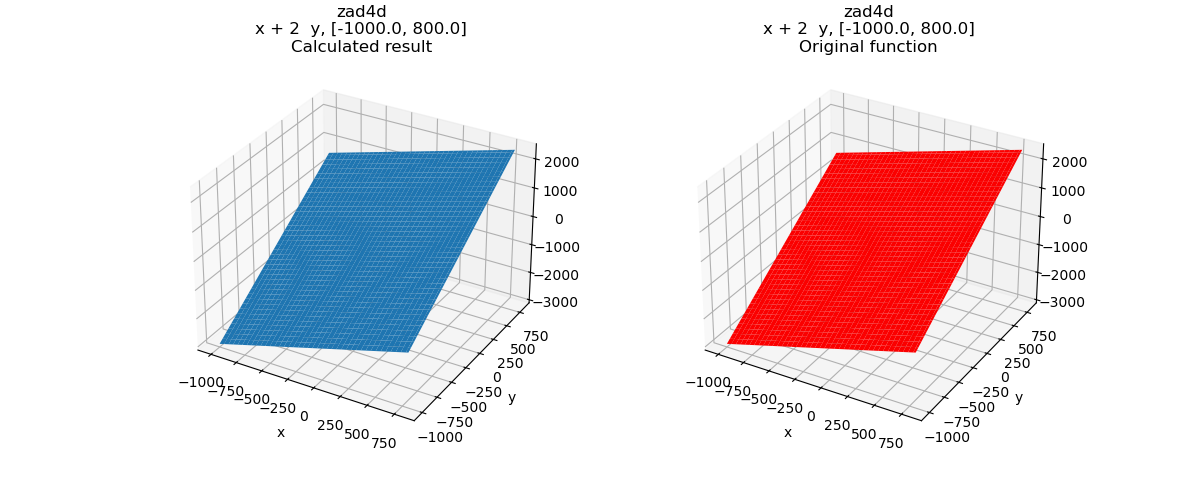
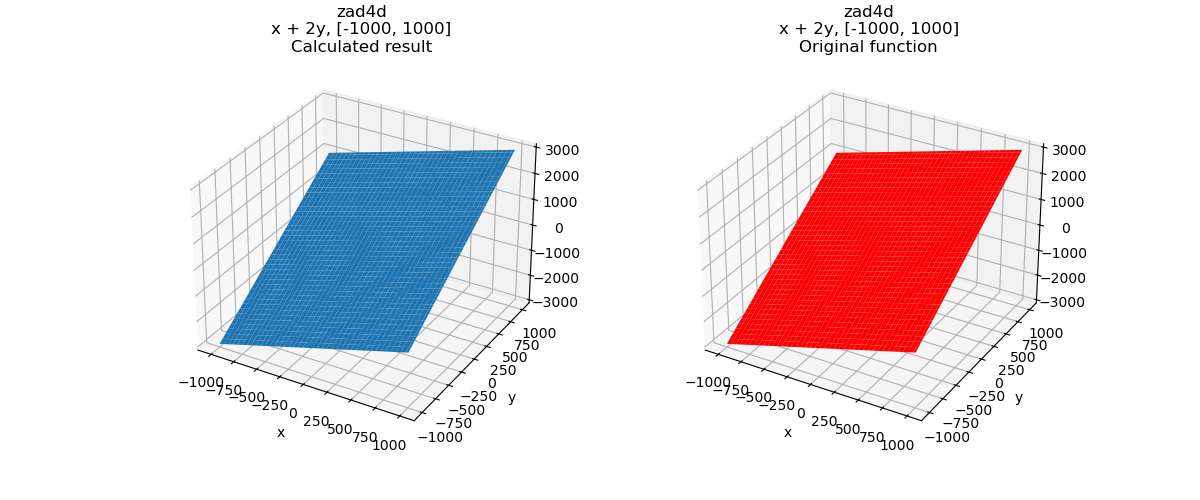
domain fix

diff --git a/plot_chart.py b/plot_chart.py
@@ -6,9 +6,36 @@ import inspect
 
 SOLUTION_DIR = "output"
 CHART_DIR = "charts"
+DOMAINS = {
+    "zad1a": (-10, 10),
+    "zad1b": (0, 100),
+    "zad1c": (-1, 1),
+    "zad1d": (-1000, 1000),
+    "zad2a": (-3.14, 3.14),
+    "zad2b": (0, 7),
+    "zad2c": (0, 100),
+    "zad2d": (-100, 100),
+    "zad3a": (0, 4),
+    "zad3b": (0, 9),
+    "zad3c": (0, 99),
+    "zad3d": (0, 999),
+    "zad4a": (0, 1),
+    "zad4b": (-10, 10),
+    "zad4c": (0, 100),
+    "zad4d": (-1000, 1000),
+    "zad5a": (-3.14, 3.14),
+    "zad5b": (0, 7),
+    "zad5c": (0, 100),
+    "zad5d": (-100, 100),
+    "zad6a": (-10, 10),
+    "zad6b": (0, 100),
+    "zad6c": (-1, 1),
+    "zad6d": (-1000, 1000)
+}
 
 
-def plot_chart(zadname: str):
+def plot_chart(zadname: str, resolution_arg: str = "80"):
+    resolution = int(resolution_arg)
     funcname = zadname[:4]
     assert funcname in ["zad1", "zad2", "zad3", "zad4", "zad5", "zad6"]
     original_func = getattr(make_problem, funcname)
@@ -27,8 +54,6 @@ def plot_chart(zadname: str):
         lines = f.readlines()
         (dims, _consts, _minrand, _maxrand, case_num) = lines[0].split()
         dims = int(dims)
-        domain_min = float(lines[1].split()[0])
-        domain_max = float(lines[int(case_num)].split()[0])
         assert dims_by_func == dims
         # solved = lines[-1].strip() == "PROBLEM SOLVED"
         best_solution = lines[-3]
@@ -36,30 +61,28 @@ def plot_chart(zadname: str):
     print(formula)
     print(f"dimensions: {dims}")
 
-    TASK = zadname
-    FROM = domain_min
-    TO = domain_max
-    FUNC_STR = formula
+    domain_min = DOMAINS[zadname][0]
+    domain_max = DOMAINS[zadname][1]
     variables = []
     for _ in range(dims):
-        variables.append(np.linspace(FROM, TO, 80))
+        variables.append(np.linspace(domain_min, domain_max, resolution))
     X1 = variables[0]
     if dims > 1:
         X2 = variables[1]
         X1, X2 = np.meshgrid(X1, X2)
-    FUNC = original_func(*variables)
-    TITLE = TASK + "\n" + f"{FUNC_STR}, [{FROM}, {TO}]"
-    RESULT = eval(best_solution)
+    func = original_func(*variables)
+    title = zadname + "\n" + f"{formula}, [{domain_min}, {domain_max}]"
+    result = eval(best_solution)
 
     def plot_one_dim():
-        plt.scatter(X1, RESULT, label="Calculated result")
-        plt.plot(X1, FUNC, color='red', label="Original function")
-        plt.title(TITLE)
+        plt.scatter(X1, result, label="Calculated result")
+        plt.plot(X1, func, color='red', label="Original function")
+        plt.title(title)
         plt.grid()
         plt.legend()
         plt.xlabel('x')
         plt.ylabel('f(x)')
-        plt.savefig(f"{CHART_DIR}/{TASK}.png")
+        plt.savefig(f"{CHART_DIR}/{zadname}.png")
 
     def plot_two_dims():
         z_result = eval(best_solution)
@@ -74,11 +97,11 @@ def plot_chart(zadname: str):
         ax2.set_xlabel('x')
         ax1.set_ylabel('y')
         ax2.set_ylabel('y')
-        ax1.set_title(TITLE + "\nCalculated result")
-        ax2.set_title(TITLE + "\nOriginal function")
+        ax1.set_title(title + "\nCalculated result")
+        ax2.set_title(title + "\nOriginal function")
         ax1.grid()
         ax2.grid()
-        plt.savefig(f"{CHART_DIR}/{TASK}.png")
+        plt.savefig(f"{CHART_DIR}/{zadname}.png")
 
     if dims == 1:
         plot_one_dim()
@@ -87,5 +110,5 @@ def plot_chart(zadname: str):
 
 
 if __name__ == "__main__":
-    assert len(sys.argv) == 2
-    plot_chart(sys.argv[1])
+    assert len(sys.argv) in (2, 3)
+    plot_chart(*sys.argv[1:])

diff --git a/make_problem.py b/make_problem.py
@@ -27,7 +27,6 @@ import numpy as np
 #     with open(path, "w") as f:
 #         f.writelines(lines)
 
-
 def gen_problem_1d(path, foo, domain, rand, points):
     lines = [f"1 {rand[0]} {rand[1]} {rand[2]} {points}\n"]
 
@@ -39,11 +38,11 @@ def gen_problem_1d(path, foo, domain, rand, points):
     with open(path, "w") as f:
         f.writelines(lines)
 
+
 def gen_problem_2d(path, foo, domain, rand, points):
     lines = [f"2 {rand[0]} {rand[1]} {rand[2]} {points}\n"]
     point_per_dim = math.ceil(math.sqrt(points))
     interval = (domain[1] - domain[0]) / point_per_dim
-
 
     for xi in range(point_per_dim):
         x = domain[0] + interval * xi
@@ -54,26 +53,33 @@ def gen_problem_2d(path, foo, domain, rand, points):
     with open(path, "w") as f:
         f.writelines(lines)
 
+
 def zad1(x):
-        return 5 * x**3 - 2 * x**2 + 3 * x - 17
+    return 5 * x**3 - 2 * x**2 + 3 * x - 17
+
 
 def zad2(x):
-        return np.sin(x) + np.cos(x)
+    return np.sin(x) + np.cos(x)
+
 
 def zad3(x):
-        return 2 * np.log(x + 1)
+    return 2 * np.log(x + 1)
+
 
 def zad4(x, y):
-        return x + 2 * y
+    return x + 2 * y
+
 
 def zad5(x, y):
-        return np.sin(x/2) + 2 * np.cos(y)
-        # zakladam ze mialo byc cos(y)
-        # return n.spin(x/2) + 2 * n.cos(x)
-        # chyba na upelu jest zadanie zapisane z bledem
+    return np.sin(x/2) + 2 * np.cos(y)
+    # zakladam ze mialo byc cos(y)
+    # return n.spin(x/2) + 2 * n.cos(x)
+    # chyba na upelu jest zadanie zapisane z bledem
+
 
 def zad6(x, y):
-        return x**2 + 3*x*y - 7*y + 1
+    return x**2 + 3*x*y - 7*y + 1
+
 
 def main():
     rand = (100, -20, 20)
